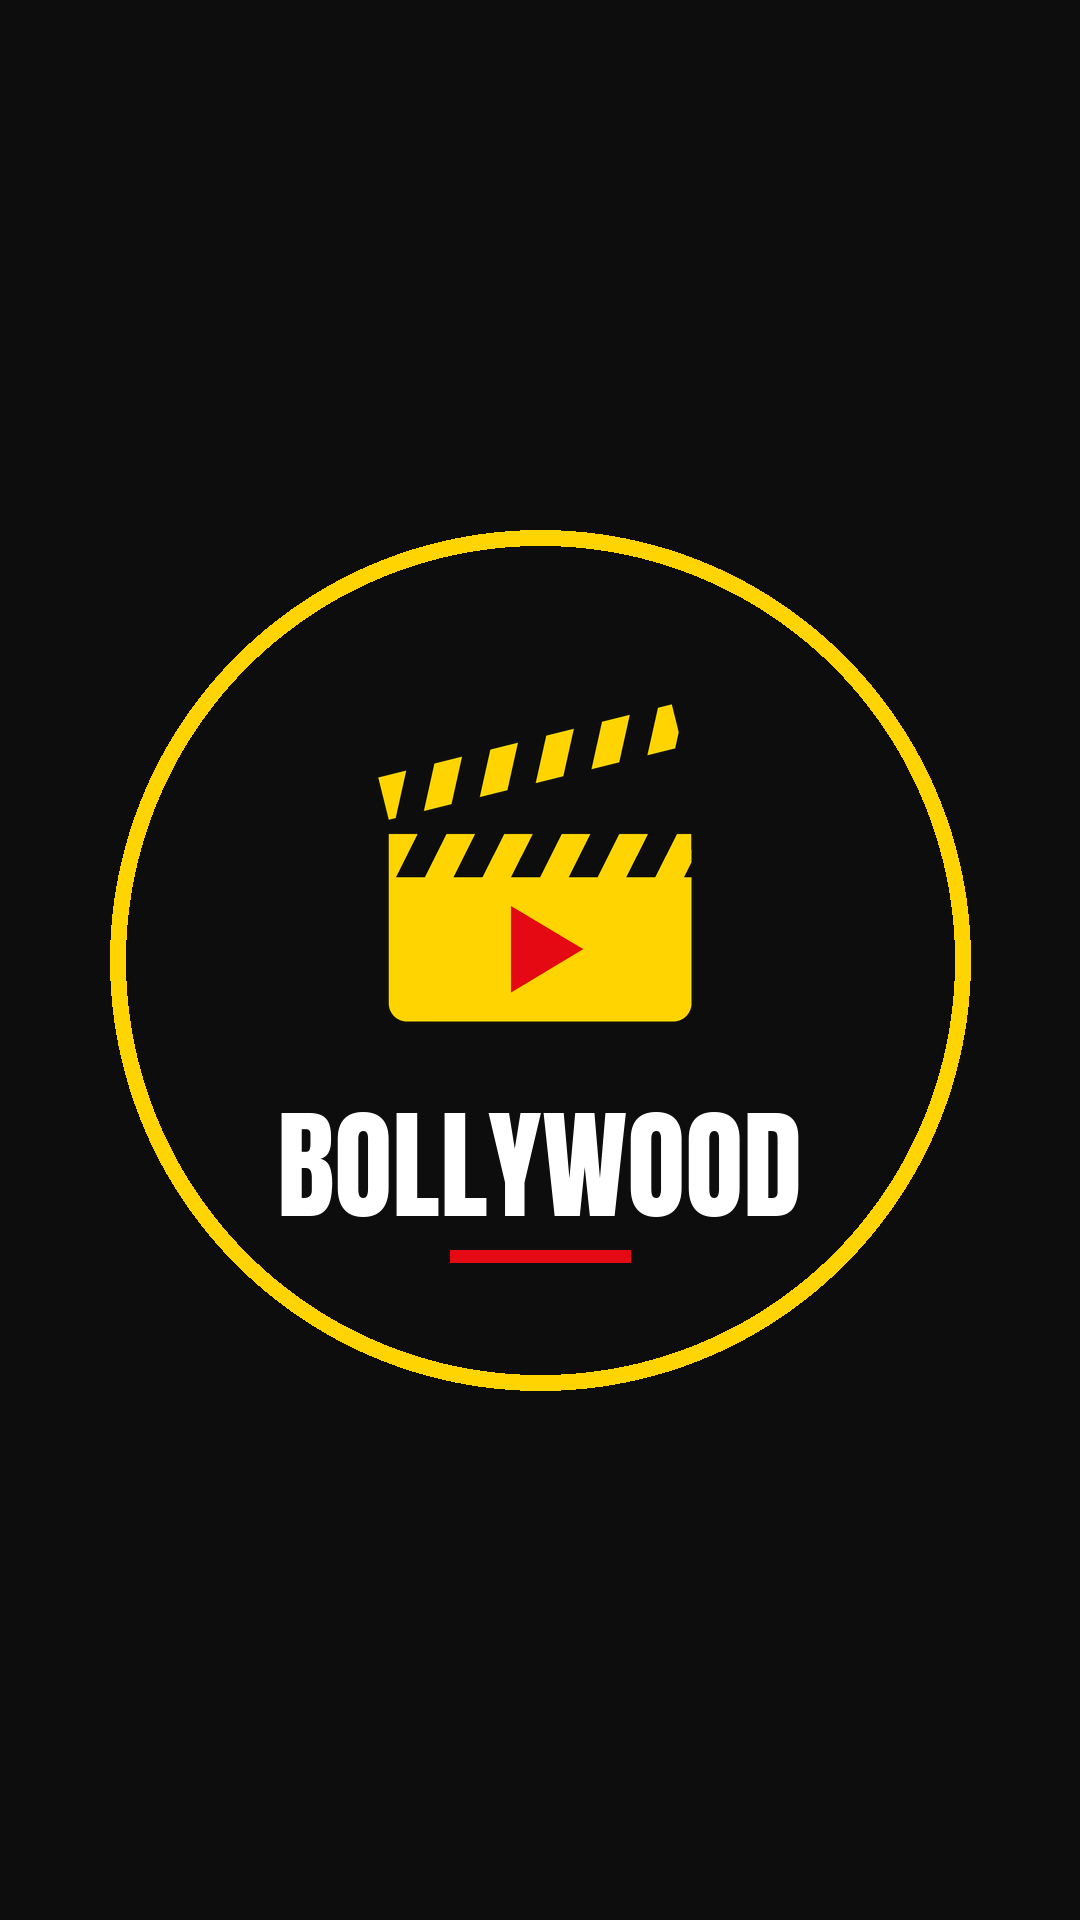
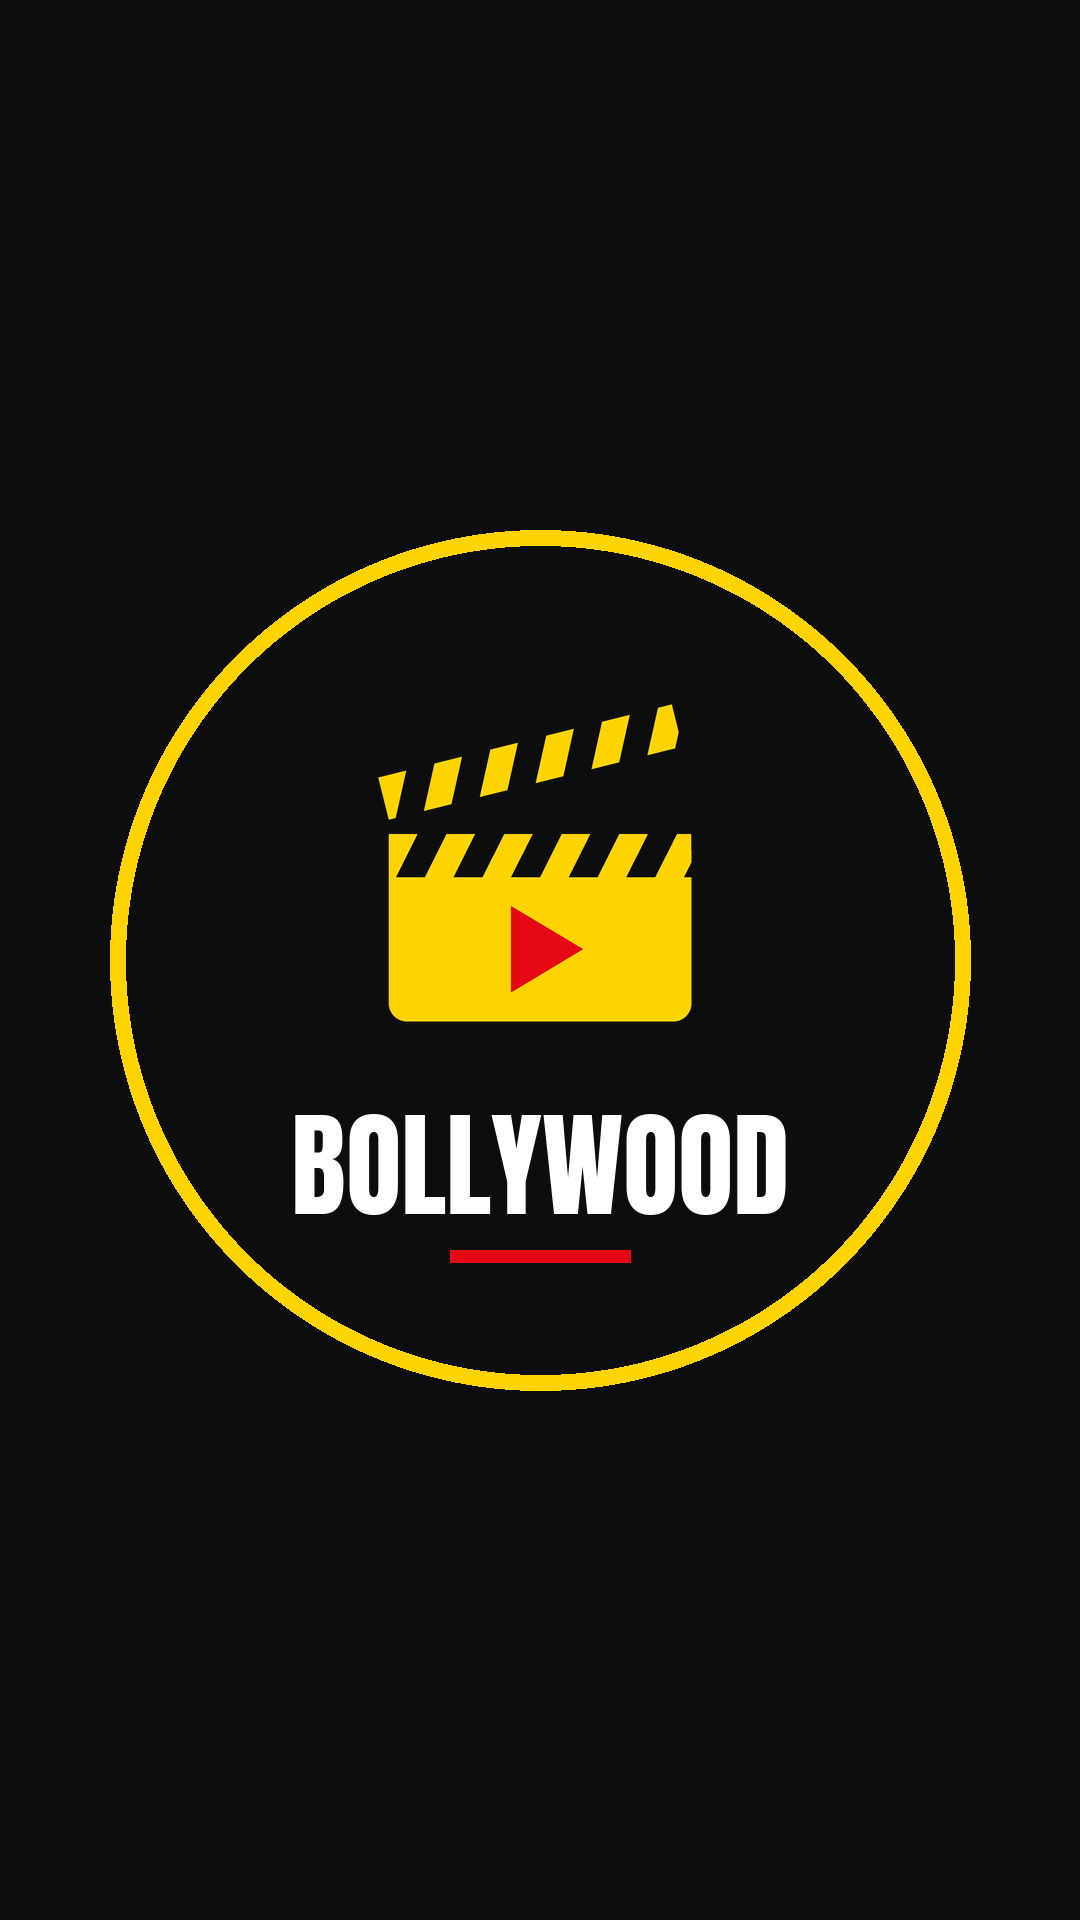
Highlight covers: Fun, Facts, Stock Market

Changed region(s): [[0.2444, 0.5625, 0.4889, 0.6562], [0.5194, 0.5625, 0.7639, 0.6562]]

diff --git a/make_highlights.py b/make_highlights.py
@@ -97,13 +97,63 @@ def icon_bollywood():
     return img
 
 
+def icon_fun():
+    """Laughing face."""
+    img, d = icon_canvas()
+    u = ICON * S / 100
+    d.ellipse((8 * u, 8 * u, 92 * u, 92 * u), fill=YELLOW)
+    for x in (30, 70):  # closed laughing eyes
+        d.arc(((x - 10) * u, 30 * u, (x + 10) * u, 50 * u), 200, 340, fill=BG, width=int(5 * u))
+    d.chord((22 * u, 40 * u, 78 * u, 84 * u), 0, 180, fill=BG)          # open mouth
+    d.chord((34 * u, 62 * u, 66 * u, 86 * u), 180, 360, fill=RED)      # tongue
+    return img
+
+
+def icon_facts():
+    """Light bulb with rays."""
+    img, d = icon_canvas()
+    u = ICON * S / 100
+    d.ellipse((26 * u, 12 * u, 74 * u, 60 * u), fill=YELLOW)             # bulb
+    d.polygon([(34 * u, 50 * u), (66 * u, 50 * u), (60 * u, 70 * u), (40 * u, 70 * u)], fill=YELLOW)
+    for y in (73, 80):                                                   # screw base
+        d.rounded_rectangle((39 * u, y * u, 61 * u, (y + 5) * u), radius=2 * u, fill=WHITE)
+    d.rounded_rectangle((44 * u, 87 * u, 56 * u, 92 * u), radius=2 * u, fill=WHITE)
+    for ang in (-150, -120, -90, -60, -30):                              # rays
+        import math
+        a = math.radians(ang)
+        x1, y1 = 50 + 30 * math.cos(a), 36 + 30 * math.sin(a)
+        x2, y2 = 50 + 40 * math.cos(a), 36 + 40 * math.sin(a)
+        d.line((x1 * u, y1 * u, x2 * u, y2 * u), fill=RED, width=int(4 * u))
+    return img
+
+
+def icon_market():
+    """Candlesticks with a rising arrow."""
+    img, d = icon_canvas()
+    u = ICON * S / 100
+    green = "#22c55e"
+    candles = [(16, 58, 78, 50, 84, RED), (34, 44, 66, 38, 72, green), (52, 50, 70, 44, 76, RED), (70, 28, 52, 20, 58, green)]
+    for x, top, bot, wtop, wbot, col in candles:
+        d.line(((x + 6) * u, wtop * u, (x + 6) * u, wbot * u), fill=WHITE, width=int(2 * u))
+        d.rectangle((x * u, top * u, (x + 12) * u, bot * u), fill=col)
+    d.line((10 * u, 70 * u, 40 * u, 46 * u, 58 * u, 54 * u, 86 * u, 16 * u), fill=YELLOW, width=int(5 * u), joint="curve")
+    d.polygon([(90 * u, 10 * u), (76 * u, 14 * u), (87 * u, 25 * u)], fill=YELLOW)   # arrow head
+    d.line((8 * u, 92 * u, 92 * u, 92 * u), fill=WHITE, width=int(3 * u))               # baseline
+    return img
+
+
 def cover(label: str, icon: Image.Image) -> Image.Image:
     img = Image.new("RGB", (W, H), BG)
     d = ImageDraw.Draw(img)
     d.ellipse((CX - R, CY - R, CX + R, CY + R), outline=YELLOW, width=16)
     icon = icon.resize((ICON, ICON), Image.LANCZOS)
     img.paste(icon, (CX - ICON // 2, CY - ICON // 2 - 90), icon)
-    fnt = ImageFont.truetype(str(ROOT / "assets" / "fonts" / "Anton-Regular.ttf"), 120)
+    size = 120
+    while True:  # long labels shrink so they stay well inside Instagram's round crop
+        fnt = ImageFont.truetype(str(ROOT / "assets" / "fonts" / "Anton-Regular.ttf"), size)
+        if d.textlength(label.upper(), font=fnt) <= 520 or size <= 70:
+            break
+        size -= 6
     d.text((CX, CY + 205), label.upper(), font=fnt, fill=WHITE, anchor="mm")
     d.rectangle((CX - 90, CY + 290, CX + 90, CY + 302), fill=RED)
     return img
@@ -113,13 +163,14 @@ if __name__ == "__main__":
     out = ROOT / "assets" / "highlights"
     out.mkdir(parents=True, exist_ok=True)
     covers = {"Viral": icon_viral(), "Politics": icon_politics(),
-              "Cricket": icon_cricket(), "Bollywood": icon_bollywood()}
+              "Cricket": icon_cricket(), "Bollywood": icon_bollywood(),
+              "Fun": icon_fun(), "Facts": icon_facts(), "Stock Market": icon_market()}
     for i, (label, icon) in enumerate(covers.items(), 1):
-        cover(label, icon).save(out / f"{i}-{label.lower()}.png")
+        cover(label, icon).save(out / f"{i}-{label.lower().replace(' ', '-')}.png")
     # Preview sheet, cropped to the circle area like Instagram shows it.
-    sheet = Image.new("RGB", (4 * 460 + 60, 520), "#222222")
+    sheet = Image.new("RGB", (len(covers) * 460 + 60, 520), "#222222")
     for i, label in enumerate(covers):
-        c = Image.open(out / f"{i + 1}-{label.lower()}.png").crop((CX - R - 10, CY - R - 10, CX + R + 10, CY + R + 10))
+        c = Image.open(out / f"{i + 1}-{label.lower().replace(' ', '-')}.png").crop((CX - R - 10, CY - R - 10, CX + R + 10, CY + R + 10))
         c = c.resize((440, 440))
         mask = Image.new("L", c.size, 0)
         ImageDraw.Draw(mask).ellipse((0, 0, 439, 439), fill=255)
